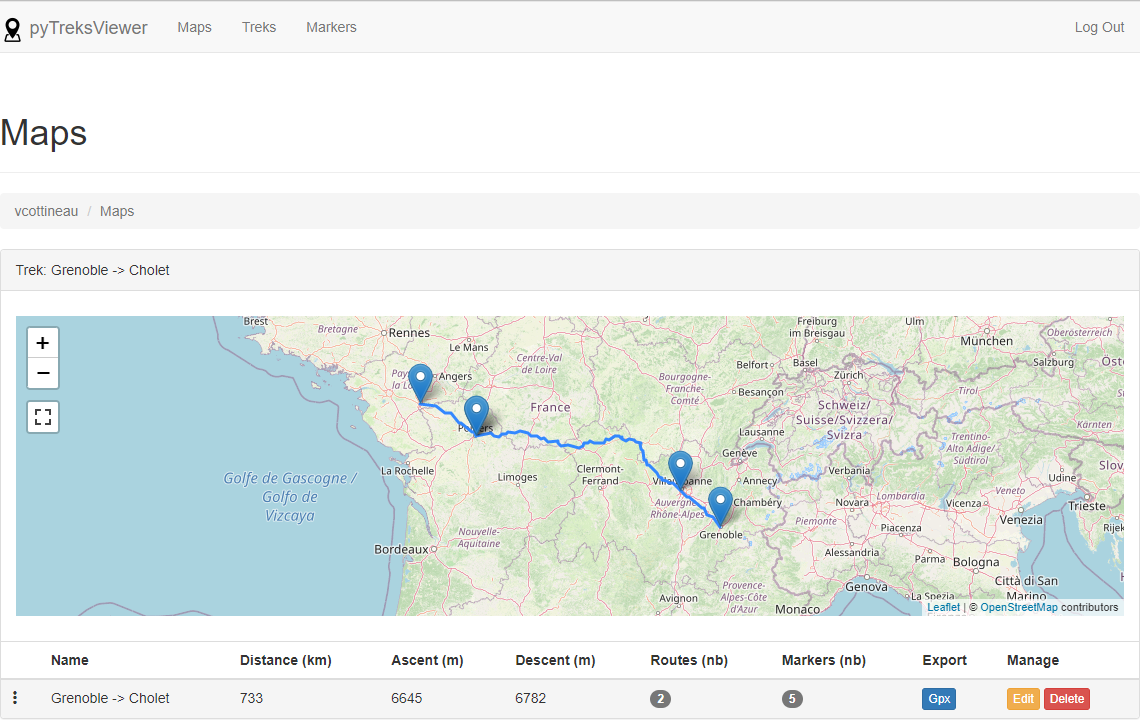
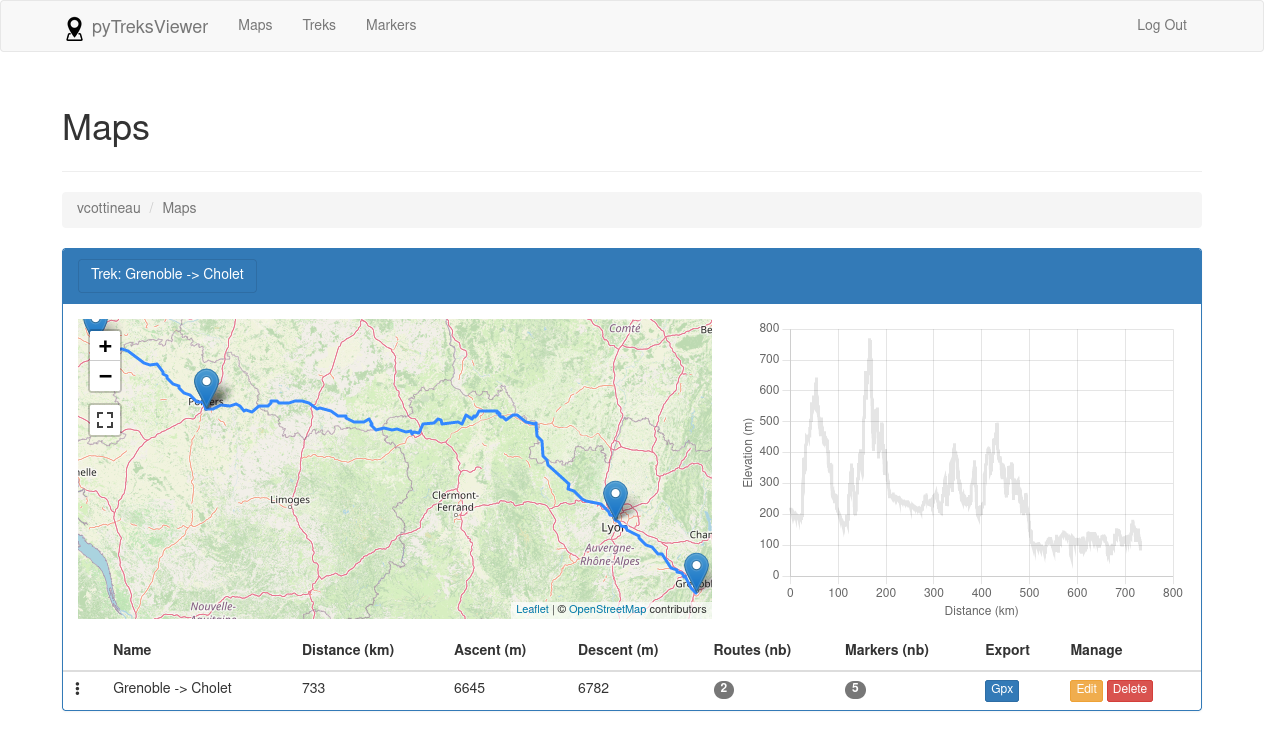
charts

diff --git a/app/templates/index.html b/app/templates/index.html
@@ -19,6 +19,13 @@
         <li class="active">Maps</li>
     </ol>
 </div>
+{% if user.treks|count == 3 %}
+<div class="jumbotron">
+    <h1>Hello, {{ user.username }}!</h1>
+    <p>...</p>
+    <p><a class="btn btn-primary btn-lg" href="#" role="button">Add</a></p>
+  </div>
+{% endif %}
 {% for trek in user.treks %}
 <div class="panel panel-primary">
     <div class="panel-heading" role="tab">
@@ -26,13 +33,13 @@
             Trek: {{ trek.name }}
         </a>
     </div>
-    <div id="trek-{{ trek.id }}" class=" collapse in">
+    <div id="trek-{{ trek.id }}" class="panel-collapse collapse in">
         <div class="panel-body">
             <div class="row">
-                <div class="col-md-9" style="height:300px">
+                <div class="col-md-7" style="height:300px">
                     <div id="map-{{ trek.id }}" style="height: 300px"></div>
                 </div>
-                <div class="col-md-3" style="height:300px">
+                <div class="col-md-5" style="height:300px">
                     <canvas id="chart-{{ trek.id }}"></canvas>                        
                 </div>
             </div>
@@ -91,7 +98,7 @@
             markerArray.push(L.marker([{{ marker.latitude }}, {{ marker.longitude }}])
             .bindPopup("<b>Name: {{ marker.name }}</b></br>Address: {{ marker.address }}</br>Elevation: {{ marker.elevation}} m"))
         {% endfor %}
-        var polyline = {{ route.geometry() }}
+        var polyline = {{ route.coordinates() }}
         var polyline = L.polyline(polyline).addTo(map);
     {% endfor %}
     var group = L.featureGroup(markerArray).addTo(map);
@@ -99,30 +106,38 @@
 
     var ctx = document.getElementById('chart-{{ trek.id }}').getContext('2d');
     var myChart = new Chart(ctx, {
-        type: 'bar',
+        type: 'scatter',
         data: {
-            labels: ['Red', 'Blue', 'Yellow', 'Green'],
             datasets: [{
-                label: '# of Votes',
-                data: [12, 19, 3, 5, 2, 3],
-                backgroundColor: [
-                    'rgba(255, 99, 132, 0.2)',
-                    'rgba(54, 162, 235, 0.2)',
-                    'rgba(255, 206, 86, 0.2)',
-                    'rgba(75, 192, 192, 0.2)'
-                ],
-                borderColor: [
-                    'rgba(255, 99, 132, 1)',
-                    'rgba(54, 162, 235, 1)',
-                    'rgba(255, 206, 86, 1)',
-                    'rgba(75, 192, 192, 1)'
-                ],
-                borderWidth: 1
+                label: 'Elevation profile',
+                data: JSON.parse('{{ trek.elevation_profile() | tojson }}'),
+                backgroundColor: 'rgb(255, 99, 132)',
+                pointRadius: 0,
+                showLine: true
             }]
         },
         options: {
+            plugins: {
+                legend: {
+                    display: false,
+                }
+            },
             scales: {
+                x: {
+                    title: {
+                        text: 'Distance (km)',
+                        padding: 0,
+                        display: true
+                    },
+                    type: 'linear',
+                    beginAtZero: true
+                },
                 y: {
+                    title: {
+                        text: 'Elevation (m)',
+                        padding: 0,
+                        display: true
+                    },
                     beginAtZero: true
                 }
             },

diff --git a/app/templates/trek_routes_markers.html b/app/templates/trek_routes_markers.html
@@ -25,12 +25,12 @@
             Route: {{ route.name }}
         </a>
     </div>
-    <div id="route-{{ route.id }}" class=" collapse in">
+    <div id="route-{{ route.id }}" class="panel-collapse collapse in">
         <div class="panel-body">
             <button type="button" class="btn btn-primary btn-modal" data-toggle="modal"
                 data-url="{{ url_for('main.add_trek_route_marker', trek_id=trek.id, route_id=route.id) }}">Add a new marker</button>
         </div>
-        <table class="table table-hover" id="markersTable">
+        <table class="table table-hover" id="trekRoutesMarkersTable">
             <thead>
                 <tr>
                     <th></th>
@@ -48,7 +48,7 @@
                 <tr id="{{ marker.id }}">
                     <td><span class="glyphicon glyphicon-option-vertical" aria-hidden="true"></span></td>
                     <td>{{ marker.name }}</td>
-                    <td>{{ marker.country }}</td>
+                    <td>{{ marker.country.name }}</td>
                     <td>{{ marker.address }}</td>                                
                     <td>{{ marker.latitude|round(2) }}</td>
                     <td>{{ marker.longitude|round(2) }}</td>

diff --git a/app/templates/markers.html b/app/templates/markers.html
@@ -19,11 +19,11 @@
 {% for folder in folders %}
 <div class="panel panel-primary">
     <div class="panel-heading" role="tab">
-        <a class="btn btn-primary" data-toggle="collapse" data-target="#folder-{{ folder.id }}"  aria-controls="collapseOne">
+        <a class="btn btn-primary" data-toggle="collapse" data-target="#folder-{{ folder.id }}"  aria-controls="#folder-{{ folder.id }}">
             Folder: {{ folder.name }}
         </a>
     </div>
-    <div id="folder-{{ folder.id }}" class=" collapse in">
+    <div id="folder-{{ folder.id }}" class="panel-collapse collapse in">
         <div class="panel-body">
             <button type="button" class="btn btn-primary btn-modal" data-toggle="modal"
                 data-url="{{ url_for('main.add_marker') }}">Add a new marker</button>

diff --git a/app/templates/trek_markers.html b/app/templates/trek_markers.html
@@ -25,12 +25,12 @@
             Route: {{ route.name }}
         </a>
     </div>
-    <div id="route-{{ route.id }}" class=" collapse in">
+    <div id="route-{{ route.id }}" class="panel-collapse collapse in">
         <div class="panel-body">
             <button type="button" class="btn btn-primary btn-modal" data-toggle="modal"
                 data-url="{{ url_for('main.add_trek_route_marker', trek_id=trek.id, route_id=route.id) }}">Add a new marker</button>
         </div>
-        <table class="table table-hover" id="markersTable">
+        <table class="table table-hover" id="trekMarkersTable">
             <thead>
                 <tr>
                     <th></th>

diff --git a/app/templates/trek_routes.html b/app/templates/trek_routes.html
@@ -17,12 +17,12 @@
             Trek: {{ trek.name }}
         </a>
     </div>
-    <div id="trek-{{ trek.id }}" class=" collapse in">
+    <div id="trek-{{ trek.id }}" class="panel-collapse collapse in">
         <div class="panel-body">
             <button type="button" class="btn btn-primary btn-modal" data-toggle="modal"
                 data-url="{{ url_for('main.add_trek_route', trek_id=trek.id) }}">Add a new route</button>
         </div>
-        <table class="table table-hover id=routesTable">
+        <table class="table table-hover id=trekRoutesTable">
             <thead>
                 <tr>
                     <th></th>

diff --git a/app/models.py b/app/models.py
@@ -81,6 +81,24 @@ class Trek(db.Model):
     def nb_markers(self):
         return sum(len(route.markers) for route in self.routes)
 
+    def elevation_profile(self):
+        coordinates = []
+        for route in self.routes:
+            coordinates.extend(route.coordinates())
+
+        d = 0
+        p = []
+        p.append({"x": d, "y": coordinates[0][2]})
+        
+        for i in range(1, len(coordinates)):
+            d += ors_client.haversine(
+                [coordinates[i-1][0], coordinates[i-1][1]],
+                [coordinates[i][0], coordinates[i][1]])
+            p.append({"x": d/1000, "y": coordinates[i][2]})
+
+        return p
+
+
     def gpx(self):
         return export_trek_as_gpx(self)
 
@@ -120,7 +138,7 @@ class Route(db.Model):
         if self.preference is None:
             self.preference = Preference.query.filter_by(default=True).first()
 
-    def geometry(self):
+    def coordinates(self):
         return [[marker[1], marker[0], marker[2]] for marker in ors_client.decode_geometry(self.path)]
 
     def update(self):

diff --git a/app/main/routes.py b/app/main/routes.py
@@ -12,6 +12,13 @@ from app.main.forms import TrekForm, TrekRouteForm, TrekRouteMarkerForm, MarkerF
 from app.models import User, Trek, Route, Marker, Profile, Preference, Country, Folder
 
 
+
+# @app.template_filter()
+# def commafy(value):
+#     value = float(value)
+#     return "${:,.2f}".format(value)
+
+
 @bp.route('/', methods=['GET'])
 @bp.route('/index', methods=['GET'])
 @login_required

diff --git a/app/geocoding.py b/app/geocoding.py
@@ -90,8 +90,8 @@ class ORSClient:
 
     def haversine(self, coord1, coord2):
         r = 6372800
-        lon1, lat1 = (coord1[0], coord1[1])
-        lon2, lat2 = (coord2[0], coord2[1])
+        lat1, lon1 = (coord1[0], coord1[1])
+        lat2, lon2 = (coord2[0], coord2[1])
 
         phi1, phi2 = math.radians(lat1), math.radians(lat2)
         dphi = math.radians(lat2 - lat1)
